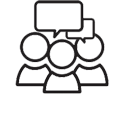
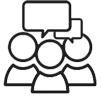
Add journeys item to sidebar

diff --git a/src/Components/sidebar/SideBarMenu.data.ts b/src/Components/sidebar/SideBarMenu.data.ts
@@ -6,6 +6,12 @@ export const sidebarNavItems = [
     iconSrc: '/images/sidebar/home.png',
   },
   {
+    id: 21,
+    title: 'Journeys',
+    link: '/journeys',
+    iconSrc: '/images/sidebar/journeys.png',
+  },
+  {
     id: 2,
     title: 'Social',
     link: '/friends',
